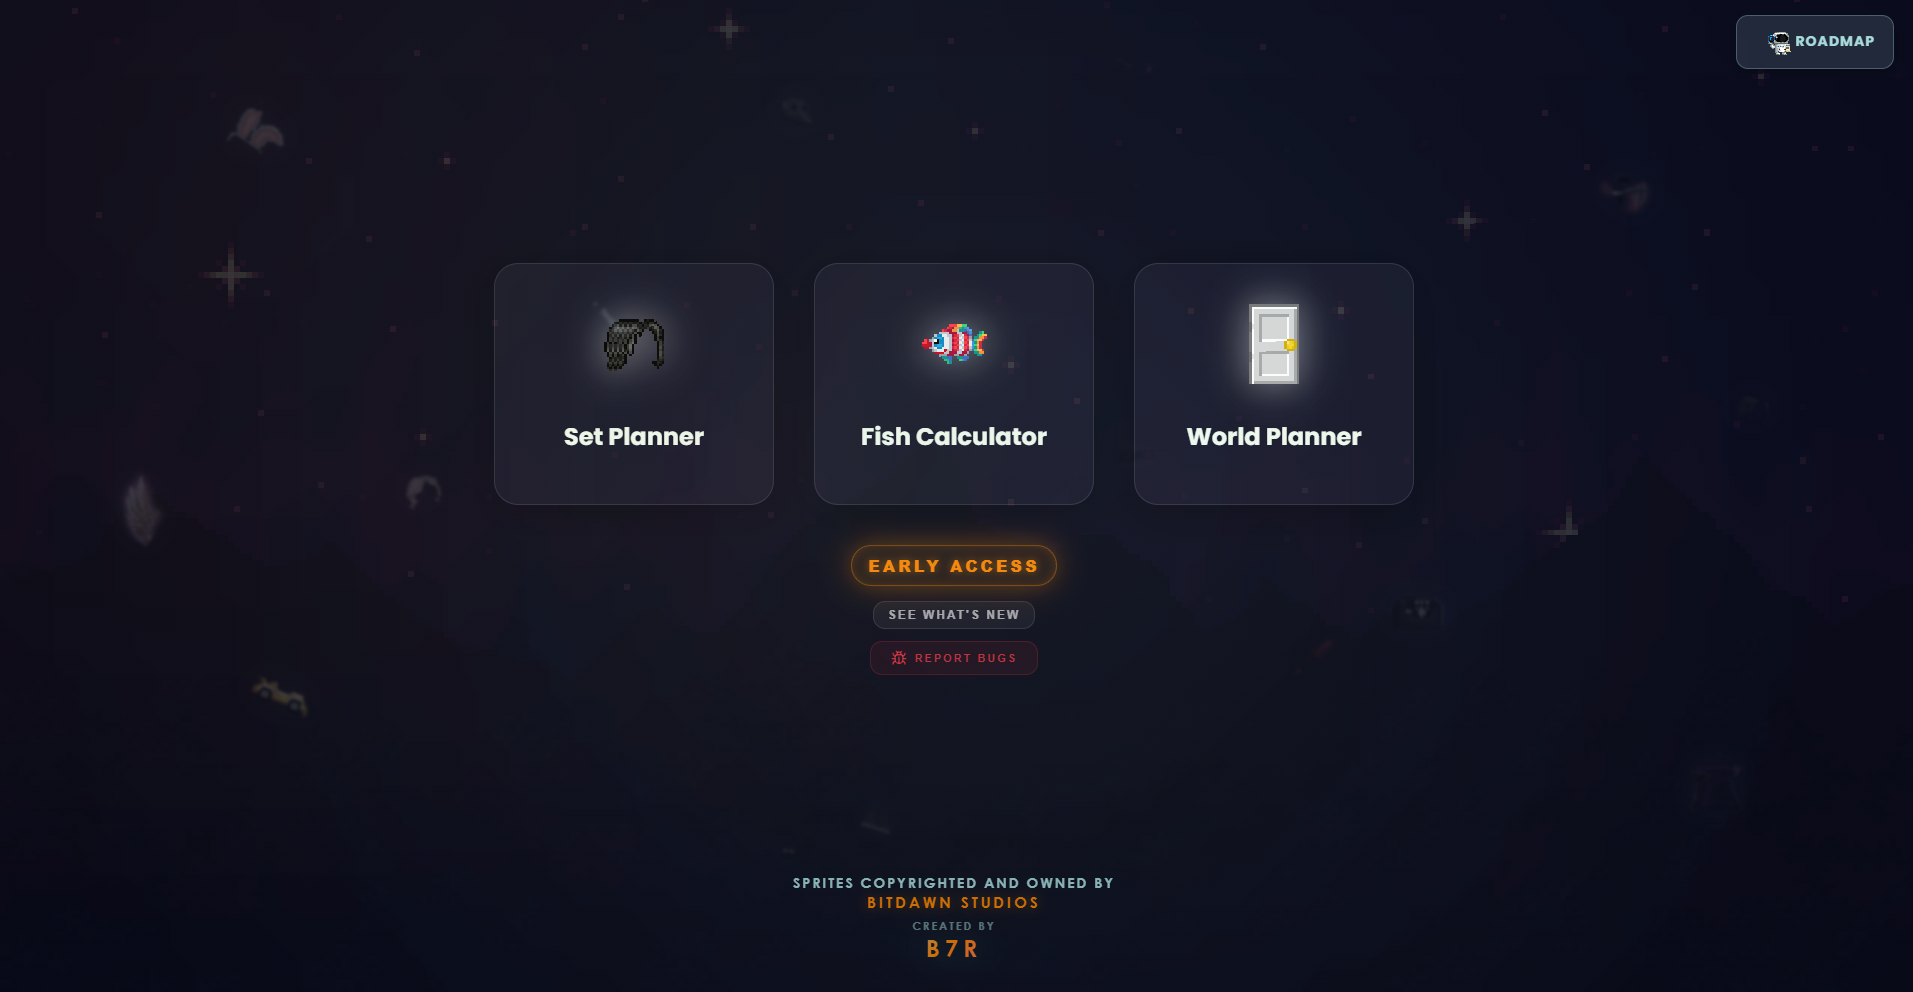
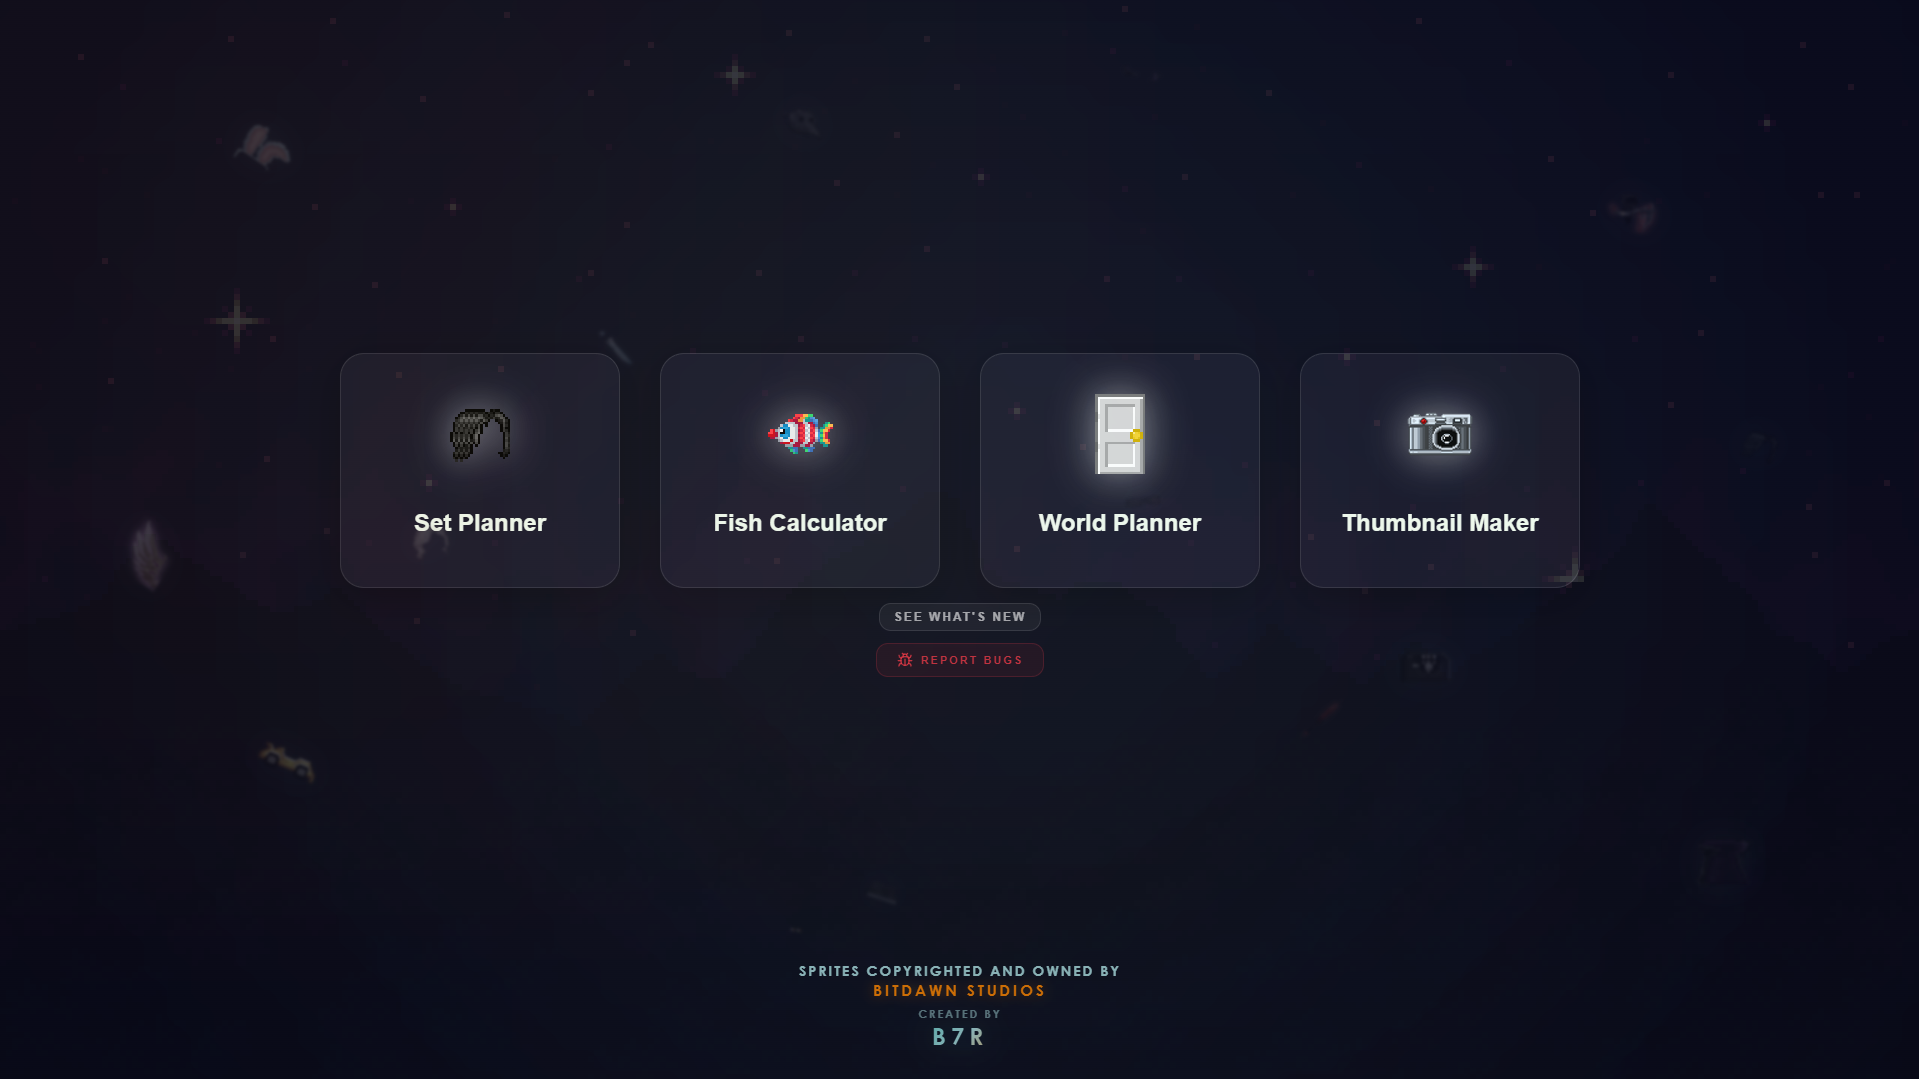
3.02 - Update featured images and fix locked layer drag selection

diff --git a/thumbnail.js b/thumbnail.js
@@ -664,16 +664,20 @@
 
       const clickedObjEl = e.target.closest('.tm-object');
       let isThemeClick = false;
+      let isLockedClick = false;
       if (clickedObjEl) {
         const oid = clickedObjEl.dataset.id;
         const obj = tmState.objects.find(o => o.id === oid);
         if (obj && obj.isTheme) {
           isThemeClick = true;
         }
+        if (obj && obj.isLocked) {
+          isLockedClick = true;
+        }
       }
 
-      // Do NOT deselect or lasso if clicking inside an object (except the background theme layer), selection handles, property panel, sidebar, dock, or catalog/modal buttons
-      if ((clickedObjEl && !isThemeClick) || 
+      // Do NOT deselect or lasso if clicking inside an object (except the background theme layer or locked layers), selection handles, property panel, sidebar, dock, or catalog/modal buttons
+      if ((clickedObjEl && !isThemeClick && !isLockedClick) || 
           e.target.closest('.tm-layers-dock') || 
           e.target.closest('.tm-property-panel') ||
           e.target.closest('.wp-catalogue') ||
@@ -1801,8 +1805,7 @@
       }
 
       if (dragTargetObj.isLocked) {
-        e.stopPropagation();
-        e.preventDefault();
+        // Let it bubble up to the global document pointerdown listener to allow starting a selection lasso
         tmDeselect();
         return;
       }
